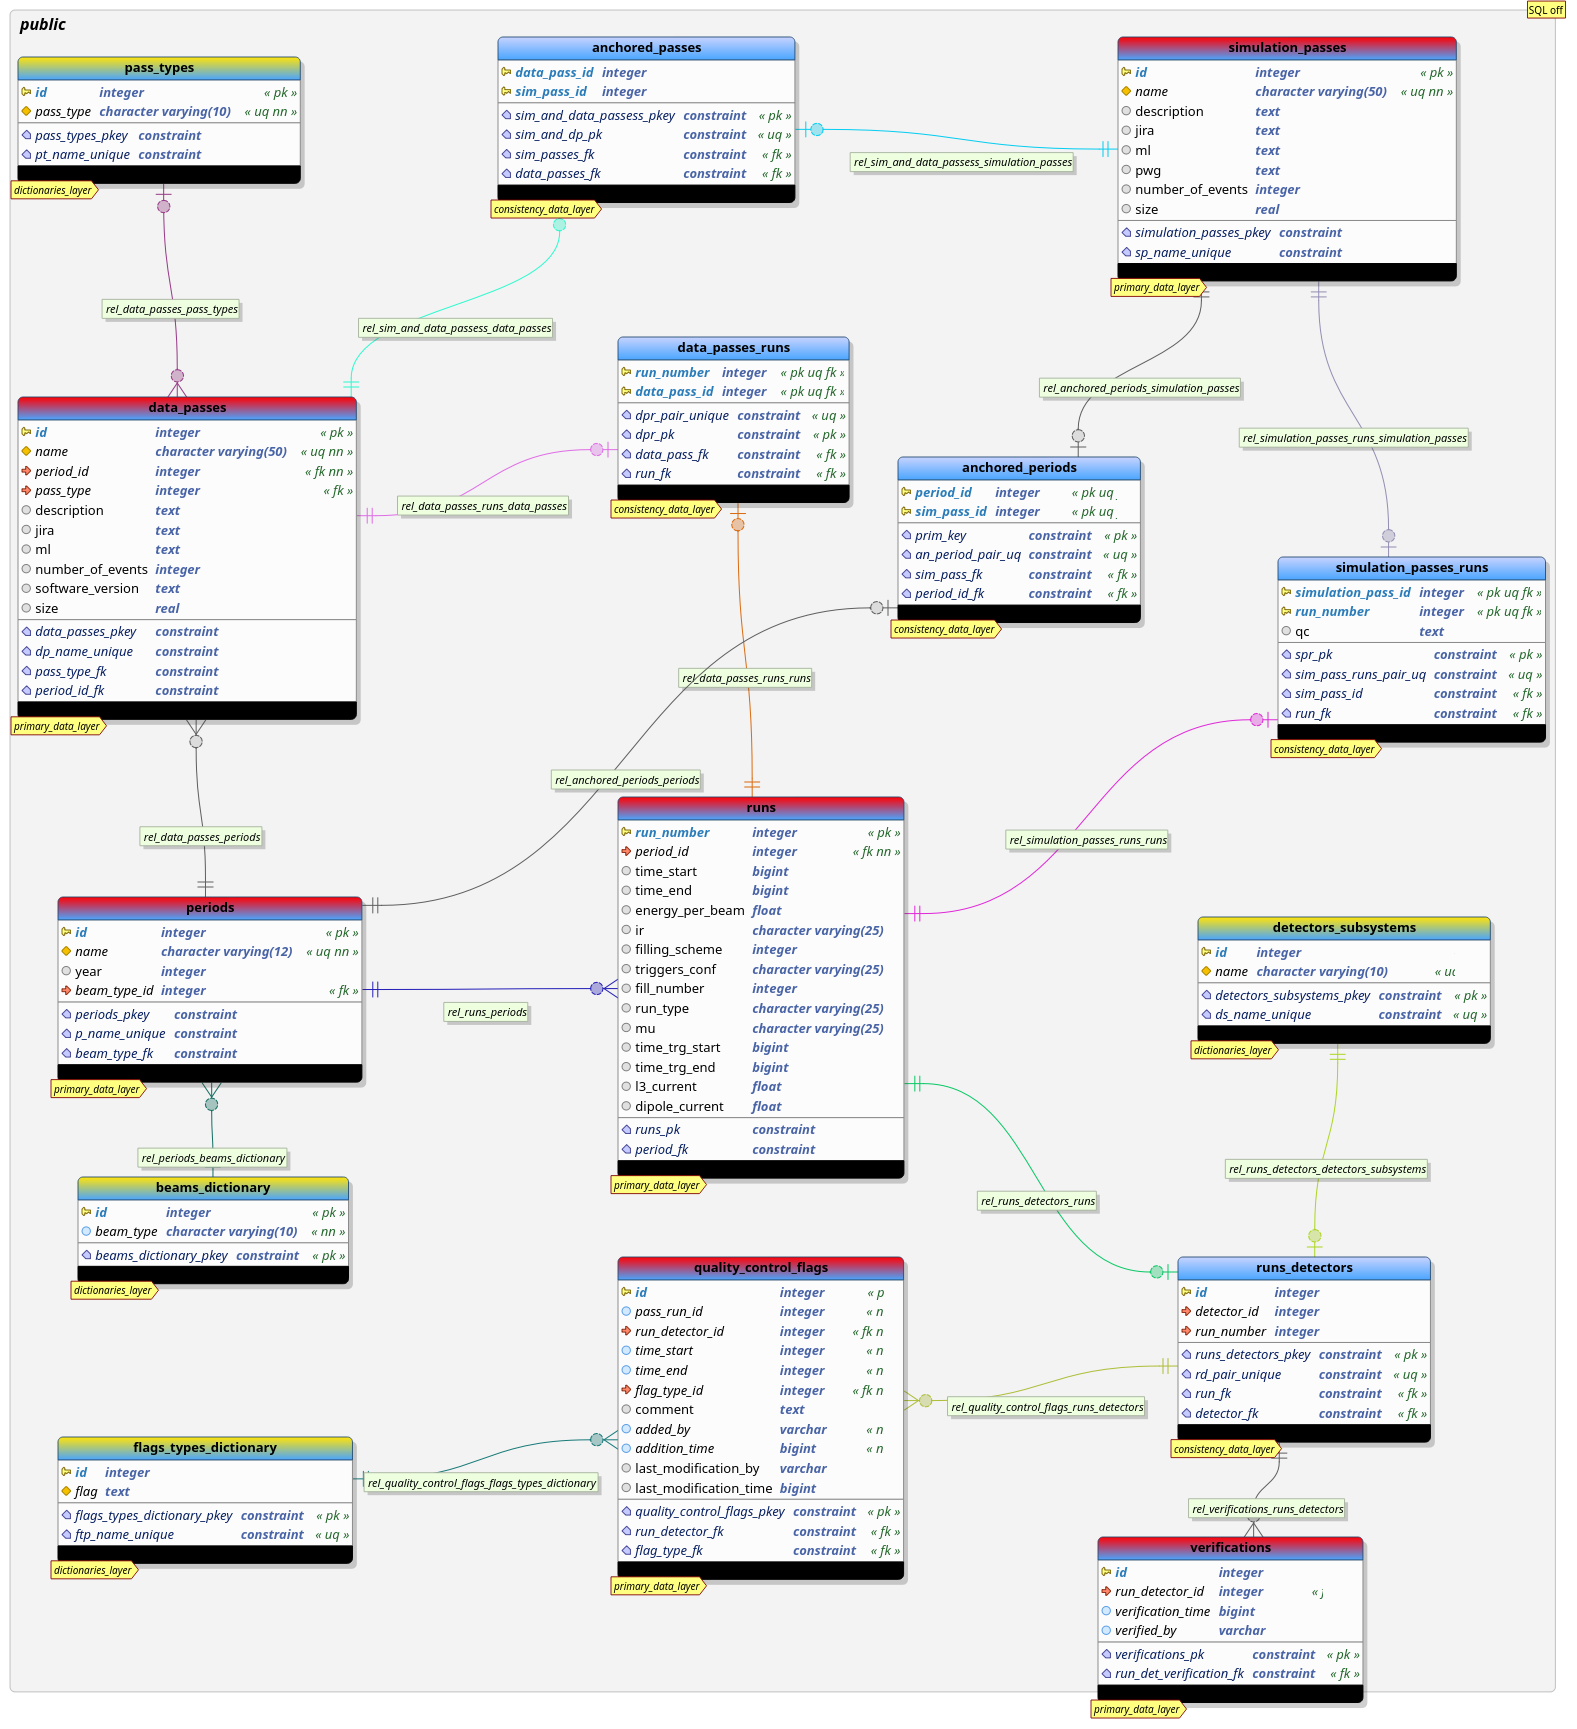
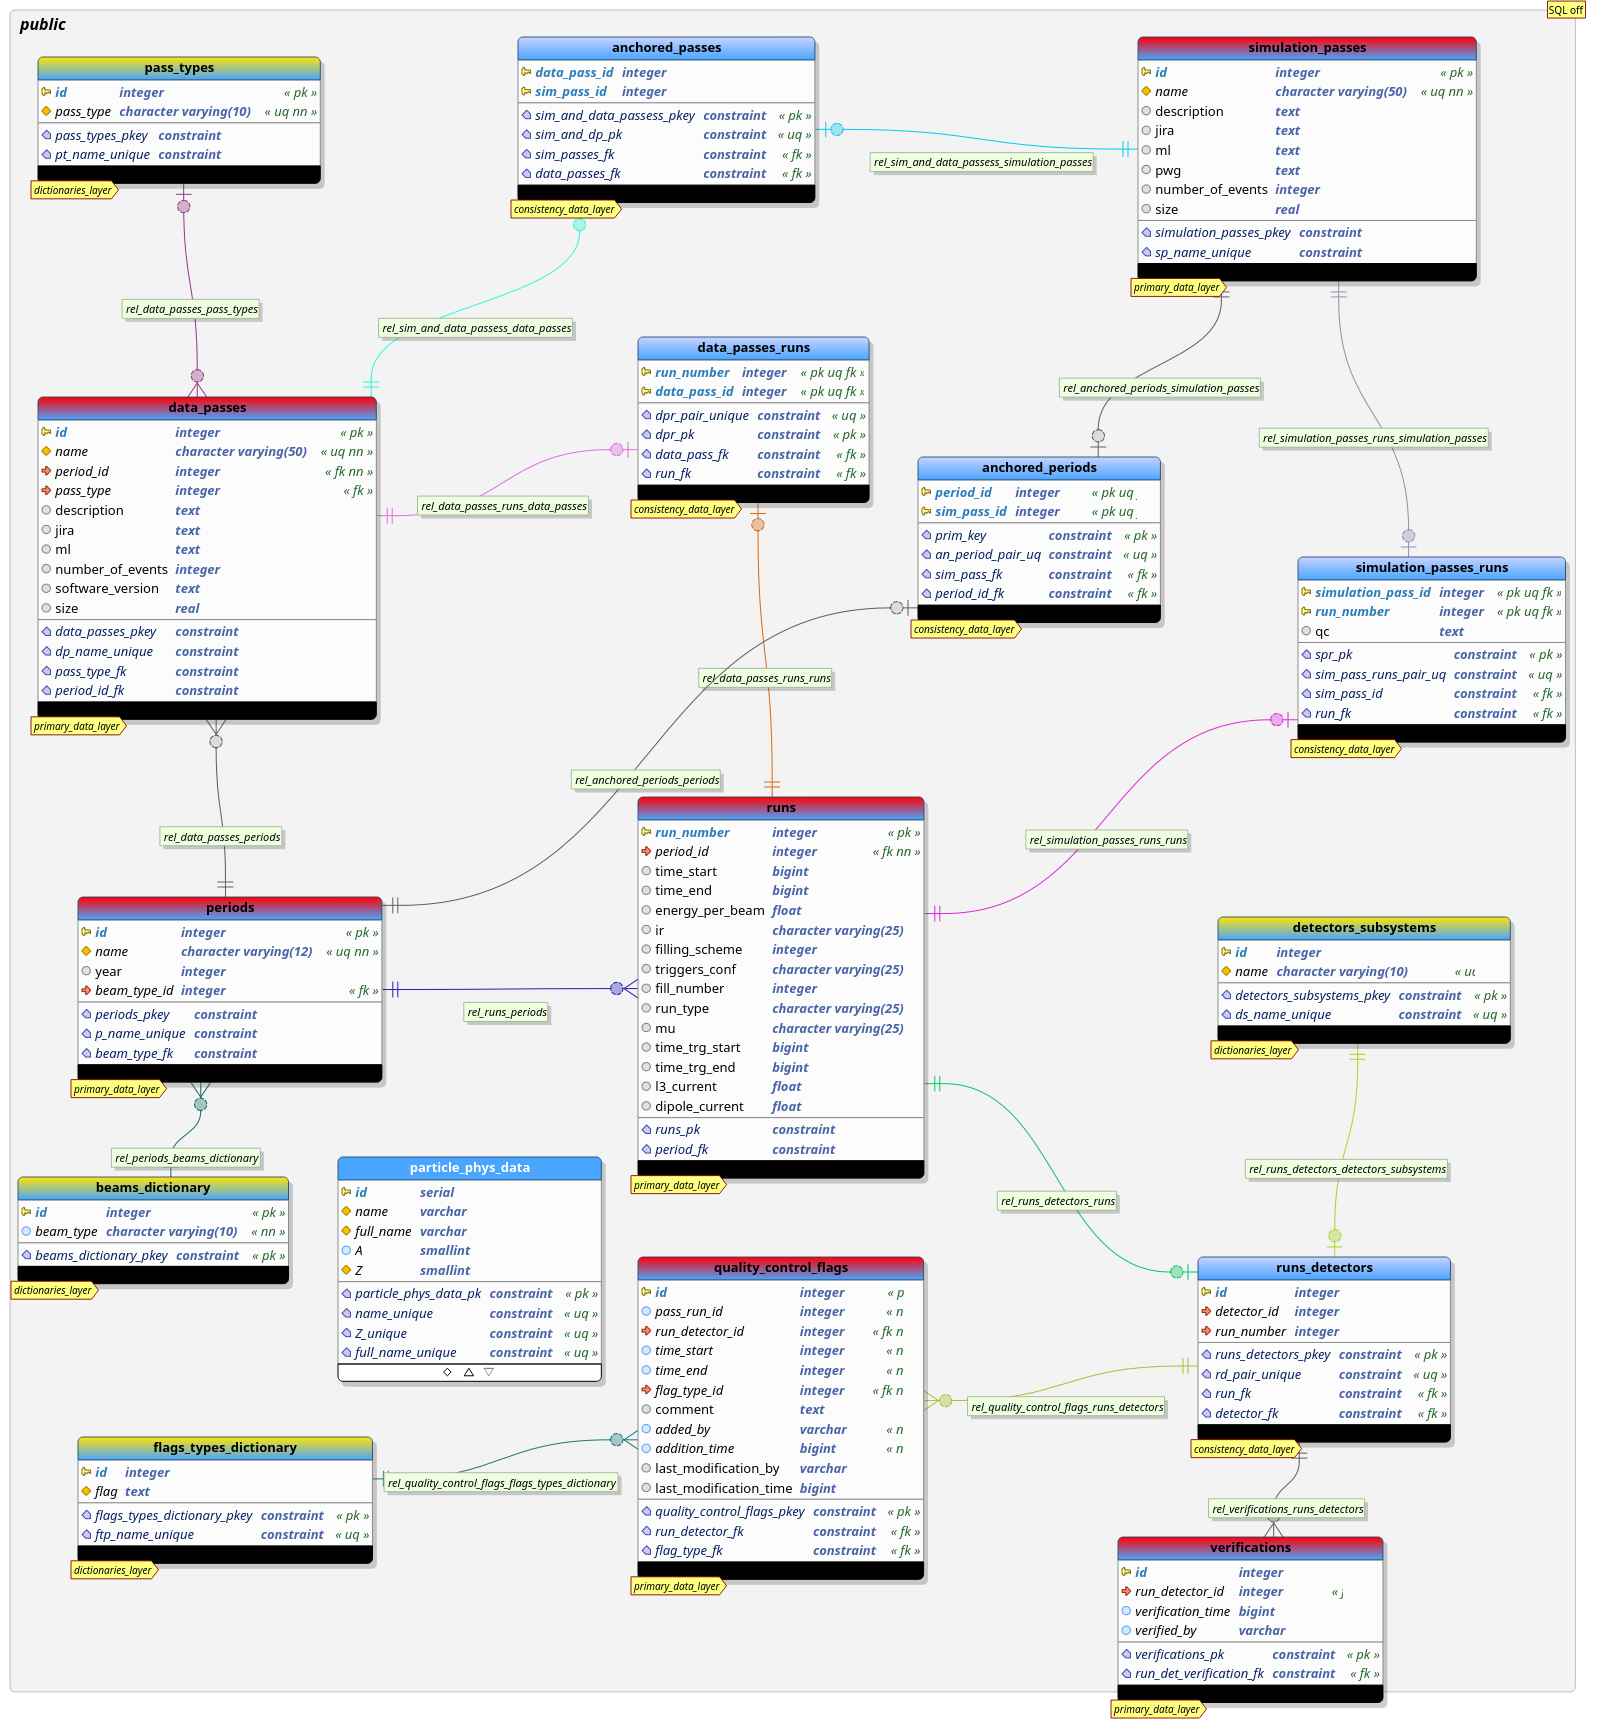
center of mass energy present on fornt side

diff --git a/app/lib/database/DatabaseService.js b/app/lib/database/DatabaseService.js
@@ -85,21 +85,25 @@ class DatabaseService {
         }
     }
 
-    async pgExec(res, query, dbResponseHandler) {
+    async pgExec(query, connectErrorHandler, dbResponseHandler, dbResErrorHandler) {
         this.pool.connect((connectErr, client, release) => {
         if (connectErr) {
-            this.logger.error('Error acquiring client:: ' + connectErr.stack)
-            this.responseWithStatus(res, 500, connectErr.message);
+            if (connectErrorHandler) {
+                connectErrorHandler(connectErr);
+            }
             return;
         }
 
         client.query(query)
             .then((dbRes) => {
-                dbResponseHandler(dbRes);
+                if (dbResponseHandler) {
+                    dbResponseHandler(dbRes);
+                }
             })
             .catch((e) => {
-                this.logger.error(e.message + ' :: ' + e.stack)
-                this.responseWithStatus(res, 500, e.code);
+                if (dbResErrorHandler) {
+                    dbResErrorHandler(e);
+                }
             });
             release();
         })
@@ -117,6 +121,11 @@ class DatabaseService {
 
         
         const params = {...req.query, ...req.params}
+
+        const connectErrorHandler = (connectErr) => {
+            this.logger.error('Error acquiring client:: ' + connectErr.stack)
+            this.responseWithStatus(res, 500, connectErr.message);
+        }
 
         const dbResponseHandler = (dbRes) => {
             let { fields, rows } = dbRes;
@@ -137,9 +146,14 @@ class DatabaseService {
             res.json({ data: adjuster(data) });
         };
 
+        const dbResErrorHandler = (e) => {
+            this.logger.error(e.message + ' :: ' + e.stack)
+            this.responseWithStatus(res, 500, e.code);
+        }
+
         try {
             const query = QueryBuilder.build(params);
-            await this.pgExec(res, query, dbResponseHandler);
+            await this.pgExec(query, connectErrorHandler, dbResponseHandler, dbResErrorHandler);
         } catch (e) {
             this.logger.error(e.stack)
             this.responseWithStatus(res, 400, e)
@@ -173,10 +187,22 @@ class DatabaseService {
         this.adminClient.on('error', (e) => this.logger.error(e));
 
         await this.adminClient.connect()
+            .then(() => this.healthcheck())
             .catch((e) => {
-                this.logger.error(`error when trying to establish admin connection with ${config.database.host}`, e);
+                this.logger.error(`error when trying to establish admin connection with ${config.database.host}::\n ${e.stack}`);
             });
     }
+
+    async healthcheck() {
+        for (const [d, def] of Object.entries(config.databasePersistance.healthcheckQueries)) {
+            for (const q of def.query) {
+                const logger = config.databasePersistance.suppressHealthcheckLogs ? null : (e) => this.logger.error(e.stack)
+                await this.pgExec(q, logger, null, logger)
+            }
+        }
+    }
+
+
 }
 
 module.exports = DatabaseService;

diff --git a/app/lib/database/views/runs_views.js b/app/lib/database/views/runs_views.js
@@ -19,47 +19,49 @@
 
 const queryForRunsFields = `
             --p.name, 
-             r.run_number, 
-             r.time_start, 
-             r.time_end, 
-             r.time_trg_start, 
-             r.time_trg_end,
-             r.energy_per_beam, 
-             r.ir, 
-             r.filling_scheme, 
-             r.triggers_conf,
-             r.fill_number,
-             r.mu, 
-             r.l3_current,
-             r.dipole_current,
-             ${run_detectors_field_in_sql_query}
+            r.run_number, 
+            r.time_start, 
+            r.time_end, 
+            r.time_trg_start, 
+            r.time_trg_end,
+            get_center_of_mass_energy(r.energy_per_beam, p.beam_type_id) as center_of_mass_energy, 
+            r.ir, 
+            r.filling_scheme, 
+            r.triggers_conf,
+            r.fill_number,
+            r.mu, 
+            r.l3_current,
+            r.dipole_current,
+            ${run_detectors_field_in_sql_query}
 `;
  
  
  const runs_per_period_view = (query) => `
-         SELECT
-             ${queryForRunsFields}
-         FROM runs AS r
-             INNER JOIN periods AS p
-             ON p.id = r.period_id
-         WHERE period_id = (
-                             SELECT id 
-                             FROM periods 
-                             WHERE periods.name = '${query.index}'
-                             )
-         ORDER BY r.run_number DESC
+        SELECT
+            ${queryForRunsFields}
+        FROM runs AS r
+        INNER JOIN periods AS p
+            ON p.id = r.period_id
+        WHERE period_id = (
+                            SELECT id 
+                            FROM periods 
+                            WHERE periods.name = '${query.index}'
+                            )
+        ORDER BY r.run_number DESC
         `;
  
  const runs_per_data_pass_view = (query) => `
-             SELECT
-             ${queryForRunsFields}
-             FROM data_passes AS dp
-                 INNER JOIN data_passes_runs AS dpr
-                     ON dp.id=dpr.data_pass_id
-                 INNER JOIN runs AS r
-                     ON r.run_number=dpr.run_number
-             WHERE dp.name = '${query.index}'
-             ORDER BY r.run_number DESC
+            SELECT
+            ${queryForRunsFields}
+            FROM data_passes AS dp
+            INNER JOIN data_passes_runs AS dpr
+                ON dp.id=dpr.data_pass_id
+            INNER JOIN runs AS r
+                ON r.run_number=dpr.run_number
+            INNER JOIN periods as p
+                ON r.period_id = p.id
+            WHERE dp.name = '${query.index}'
+            ORDER BY r.run_number DESC
             `;
  
 

diff --git a/app/config/databasePersistance.js b/app/config/databasePersistance.js
@@ -1,3 +1,4 @@
+/* eslint-disable max-len */
 const detectors = [
     'CPV',
     'EMC',
@@ -17,9 +18,44 @@ const detectors = [
     'ZDC',
 ];
 
+const particle_phys_data = {
+    p: {
+        full_name: 'proton',
+        Z: 1,
+        A: 1,
+    },
+    Pb: {
+        full_name: 'lead',
+        Z: 83,
+        A: 207,
+    },
+    O: {
+        full_name: 'oxygen',
+        A: 8,
+        Z: 16,
+    },
+    Xe: {
+        full_name: 'xenon',
+        A: 54,
+        Z: 131,
+    },
+};
+
 module.exports = {
+    suppressHealthcheckLogs: true,
+
     detectors: detectors.sort(),
-    healthcheckQueries: [`INSERT INTO detectors_subsystems(id, name) VALUES ${detectors.map((d) => `(DEFAULT, ${d})`).join(',')};`],
+    healthcheckQueries: {
+        detectors: {
+            description: '',
+            query: detectors.map((d) => `INSERT INTO detectors_subsystems("id", "name") VALUES (DEFAULT, '${d}');`),
+        },
+        particle: {
+            description: '',
+            query: Object.entries(particle_phys_data).map(([name, d]) => `INSERT INTO particle_phys_data("id", "name", "full_name", "A", "Z")
+                    VALUES (DEFAULT, '${name}', '${d.full_name}', ${d.A}, ${d.Z});`),
+        },
+    },
 
     beam_type_mappings: {
         pp: 'p-p',

diff --git a/app/application.js b/app/application.js
@@ -89,6 +89,7 @@ class RunConditionTableApplication {
             };
             Utils.switchCase(cmdAndArgs[0], {
                 '': () => {},
+                hc: () => this.databaseService.healthcheck(),
                 users: () => {
                     this.con.log(this.databaseService.loggedUsers);
                 },
@@ -234,19 +235,19 @@ class RunConditionTableApplication {
         }
     }
 
-    isInTestMode() {
+    static isInTestMode() {
         return process.env.ENV_MODE === 'test';
     }
 
-    isInDevMode() {
+    static isInDevMode() {
         return process.env.ENV_MODE === 'development';
     }
 
-    isInProdMode() {
+    static isInProdMode() {
         return process.env.ENV_MODE === 'production';
     }
 
-    getEnvMode() {
+    static getEnvMode() {
         return process.env.ENV_MODE;
     }
 

diff --git a/app/lib/database/views/periods_view.js b/app/lib/database/views/periods_view.js
@@ -22,7 +22,7 @@ const periods_view = () => `
             FROM beams_dictionary AS bd 
                 where bd.id = p.beam_type_id
         ) AS beam,
-        array_agg(r.energy_per_beam) as energies
+        array_agg(get_center_of_mass_energy(r.energy_per_beam, p.beam_type_id)) as energies
     FROM periods AS p
     LEFT JOIN runs as r
         ON r.period_id = p.id

diff --git a/app/public/components/userView/data/headersSpecials.js b/app/public/components/userView/data/headersSpecials.js
@@ -19,7 +19,7 @@ const runsViews = {
     time_end: 'End time',
     time_trg_start: 'Trg. start',
     time_trg_end: 'Trg. end',
-    energy_per_beam: 'Energy per beam [GeV]',
+    center_of_mass_energy: 'Center of mass energy [GeV]',
     ir: 'IR [Hz]',
     filling_scheme: 'Filling scheme',
     triggers_conf: 'Triggers conf.',
